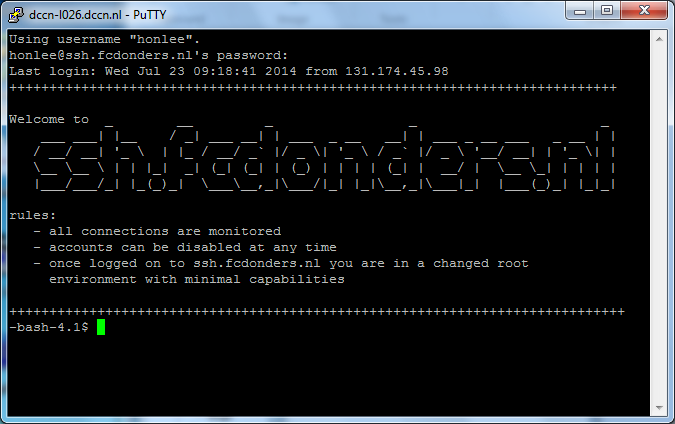
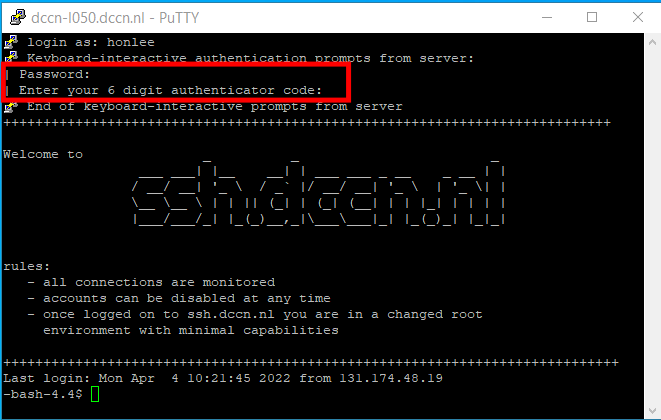
update screenshot and add notes for OTP

Changed region(s): [[0.0, 0.0, 1.0, 1.0]]

diff --git a/docs/cluster_howto/access-external-ssh.rst b/docs/cluster_howto/access-external-ssh.rst
@@ -1,6 +1,10 @@
 Using SSH tunnel
 ****************
 
+.. note::
+   Using the SSH tunnel requires a vetting process to enable MFA (Multi-Factor Authentication). 
+   Please check `the intranet page <https://intranet.donders.ru.nl/index.php?id=sshmfa>`_ to complet the vetting before following the instructions below.
+
 A SSH gateway named ``ssh.dccn.nl`` is provided for setting the SSH tunnels. When setting up a tunnel for connecting to a target service behind the firewall, one needs to choose a local network port that is still free for use on your desktop/laptop (i.e. the ``Source port``) and provides the network endpoint (i.e. the ``Destination``) referring to the target service.
 
 .. tip::
@@ -49,7 +53,10 @@ Follow the steps below to establish the tunnel for SSH connection:
    .. figure:: figures/putty_ssh_tunnel_for_ssh.png
       :figwidth: 60%
 
-#. login the gateway with your username and password to establish the tunnel
+#. login the gateway with your DCCN credential (username, password) and a valid OTP (one-time password) to establish the tunnel
+
+   .. note::
+      A `vetting process <https://intranet.donders.ru.nl/index.php?id=sshmfa>`_ is required for getting a valid one-time password.
 
    .. figure:: figures/putty_ssh_tunnel_gateway_login.png
       :figwidth: 60%
@@ -66,7 +73,7 @@ Once you have logged in the gateway, you should keep the login window open; and 
    .. figure:: figures/putty_ssh_login_via_tunnel.png
       :figwidth: 60%
 
-#. login with your username and password
+#. login with your DCCN credential (username, password)
 
    .. figure:: figures/putty_login_username_password.png
       :figwidth: 60%
@@ -112,7 +119,10 @@ Follow the steps below to establish the tunnel for VNC connection:
    .. figure:: figures/putty_ssh_tunnel_for_vnc.png
       :figwidth: 60%
 
-#. login the gateway with your username and password to establish the tunnel
+#. login the gateway with your DCCN credential (username, password) and a valid OTP (one-time password) to establish the tunnel
+
+   .. note::
+      A `vetting process <https://intranet.donders.ru.nl/index.php?id=sshmfa>`_ is required for getting a valid one-time password.
 
    .. figure:: figures/putty_ssh_tunnel_gateway_login.png
       :figwidth: 60%
